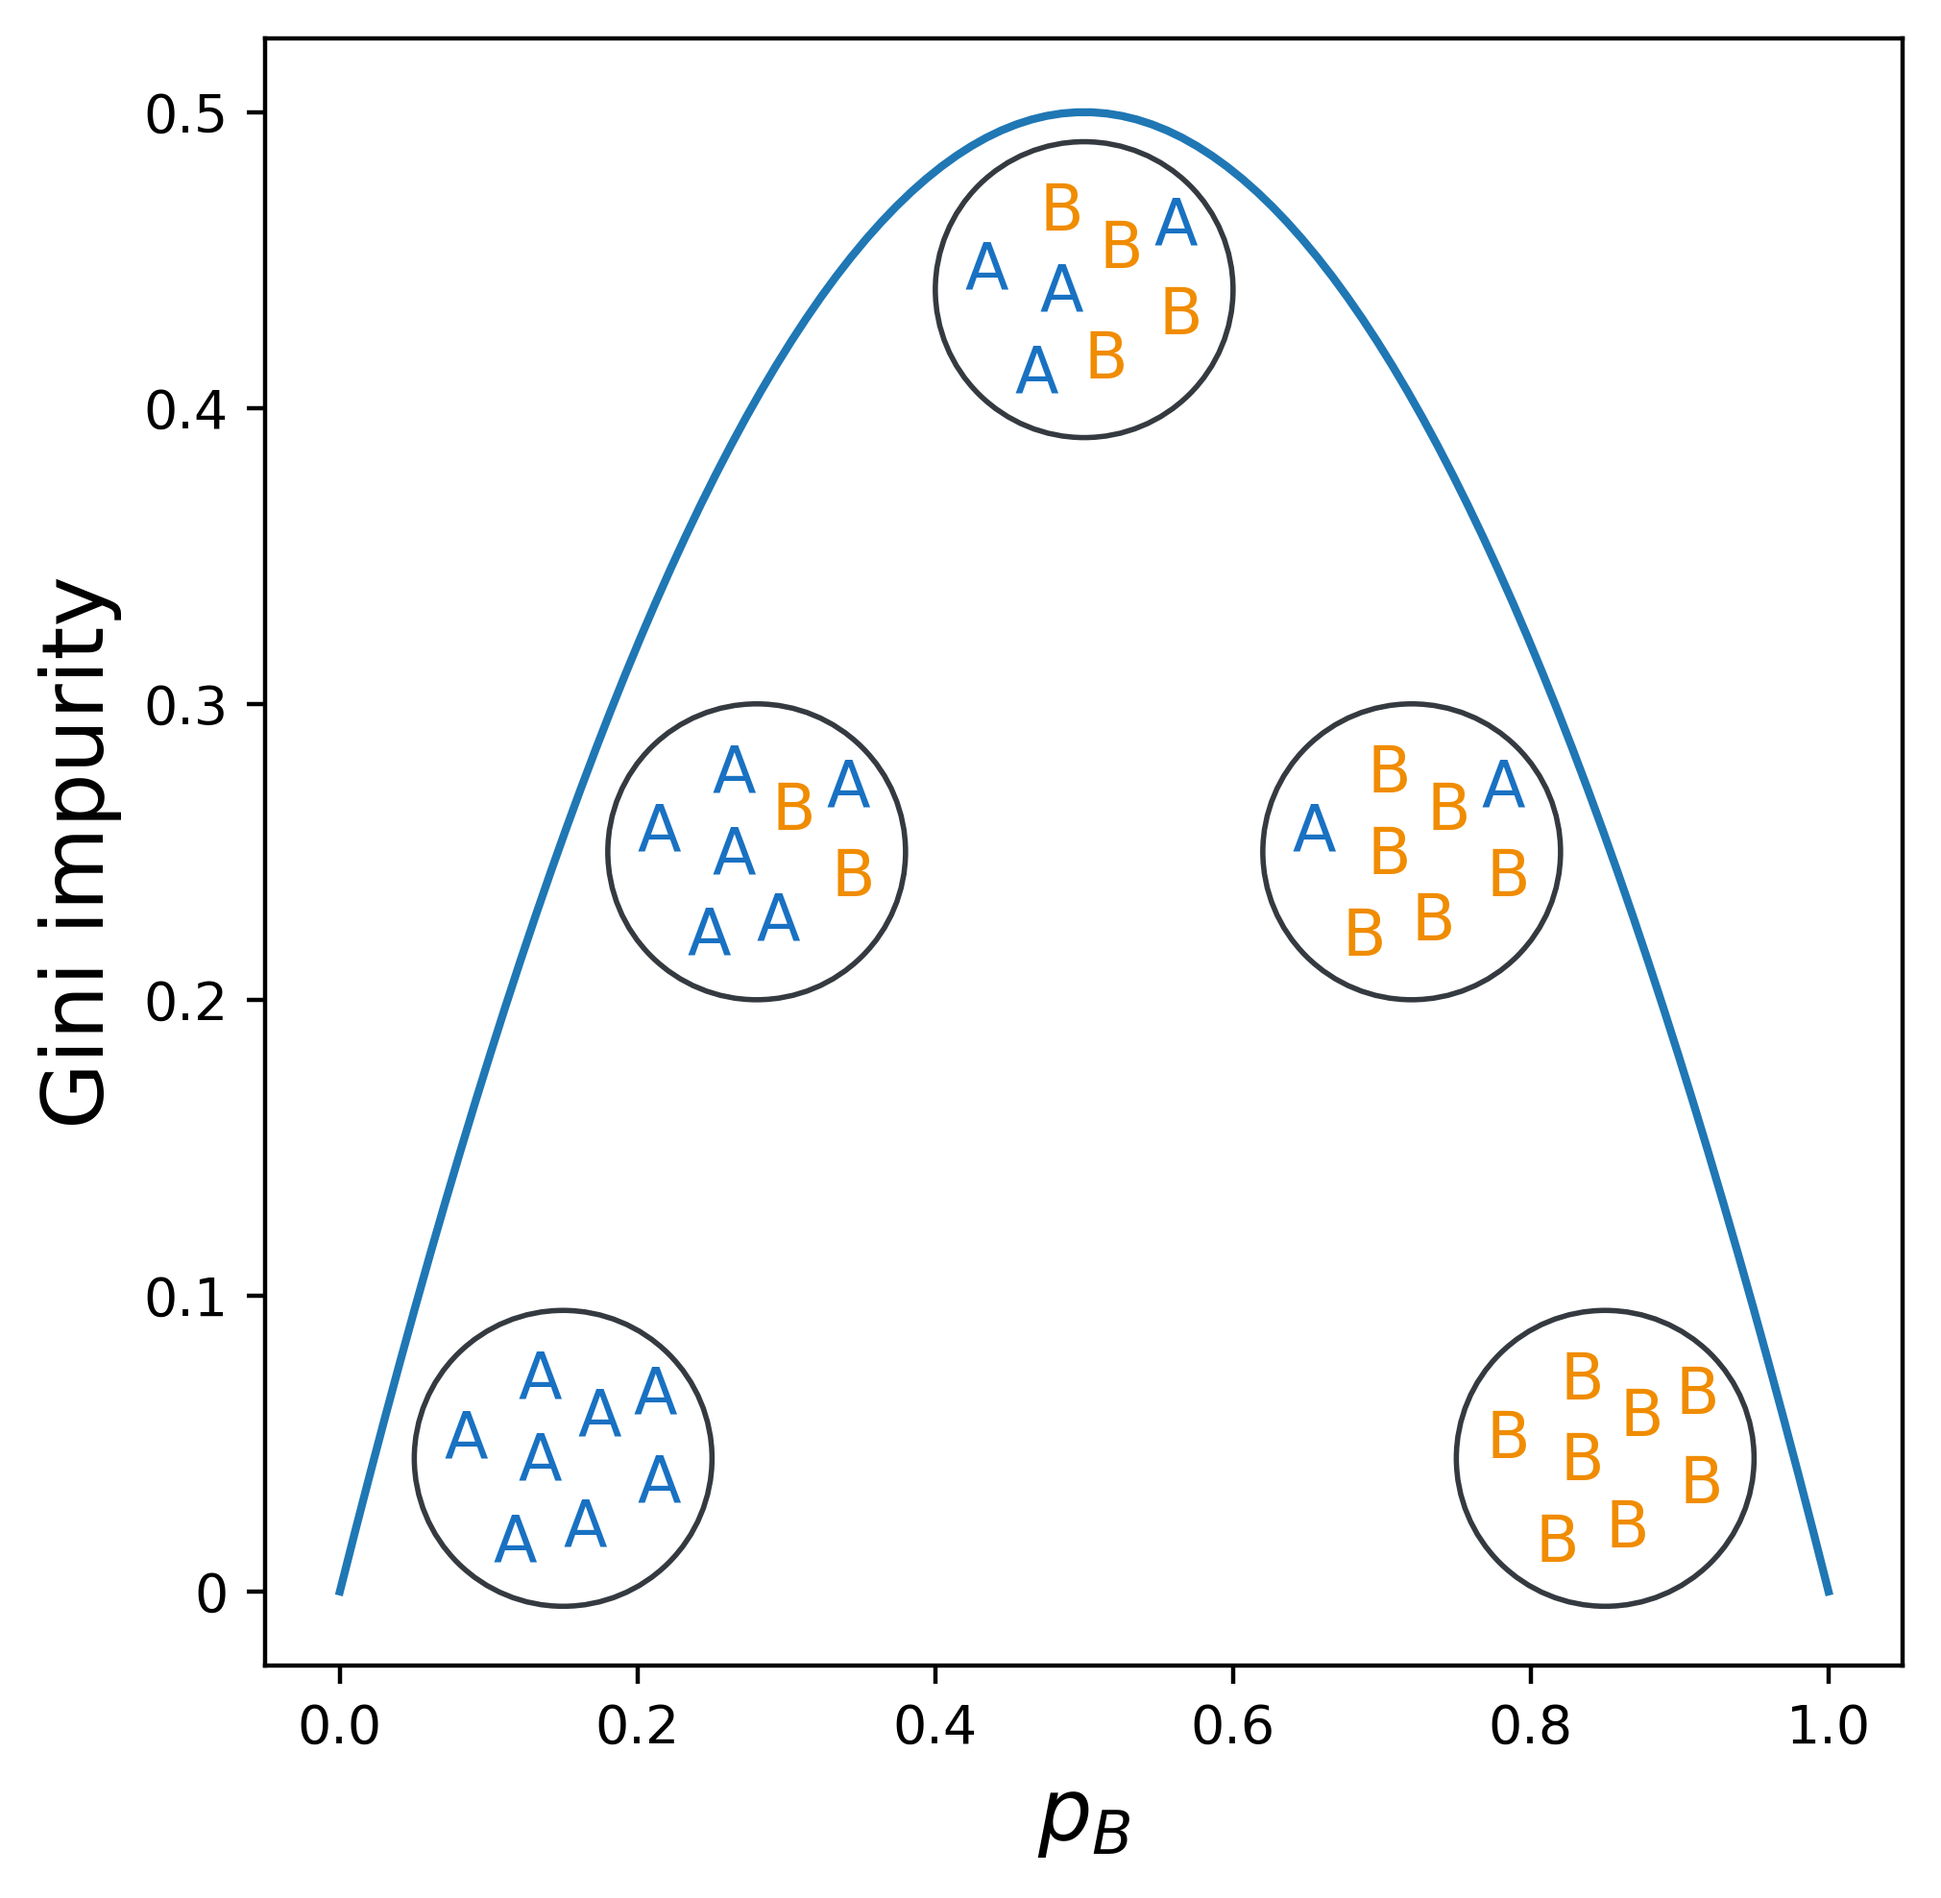
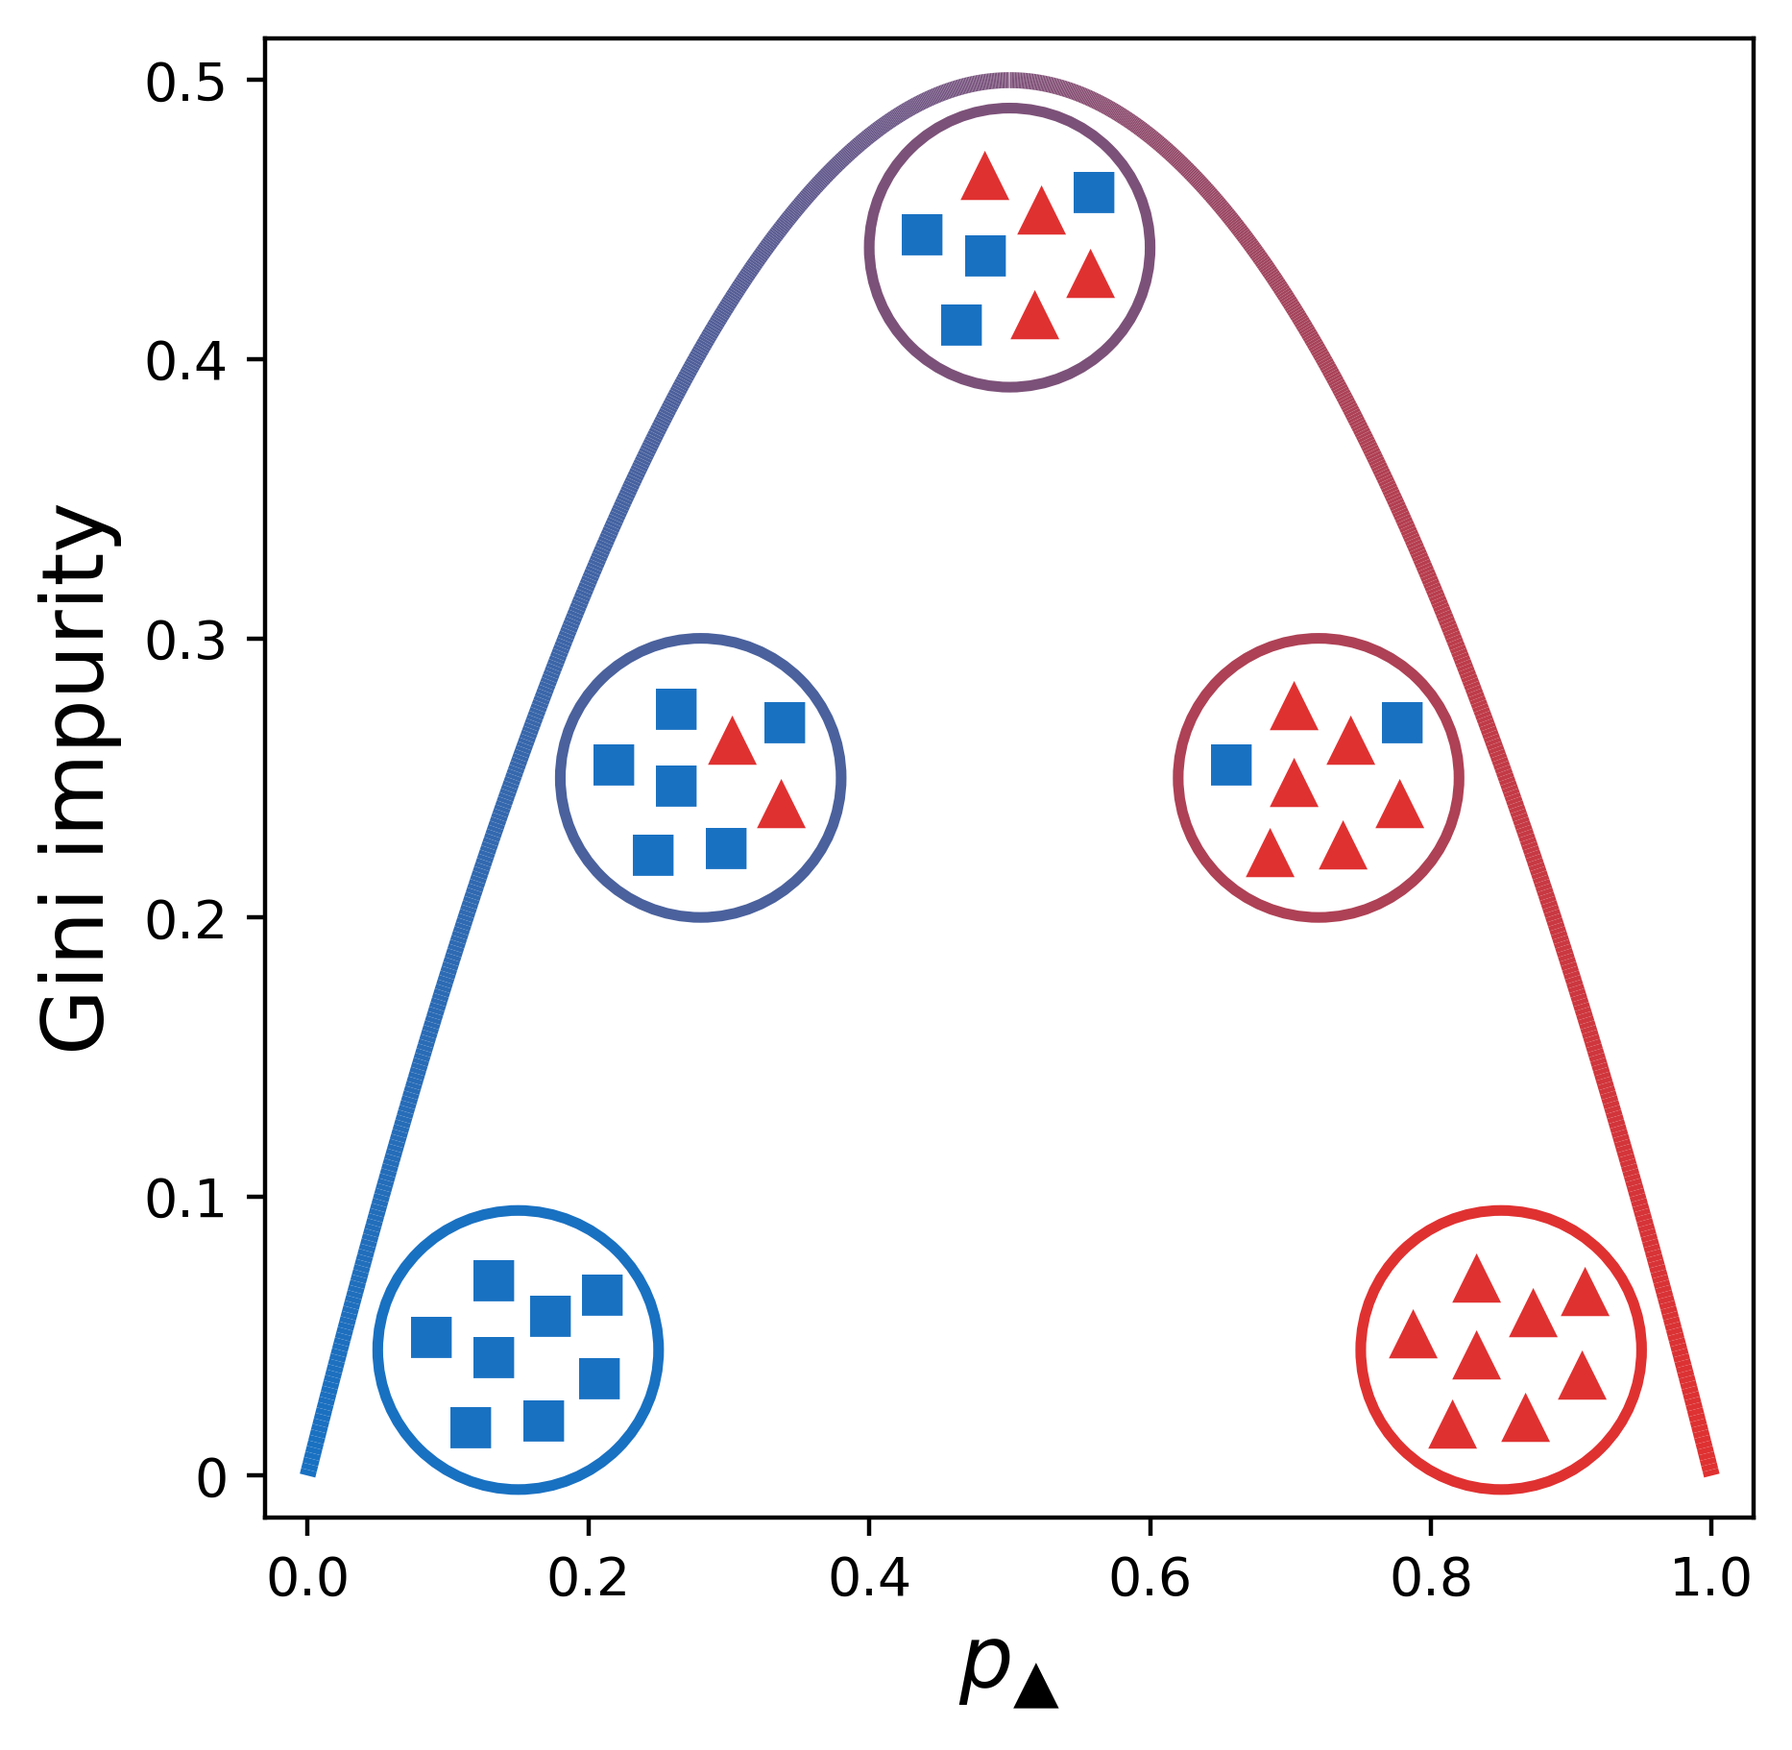
Update Gini figure

diff --git a/_posts/projects/2023-12-22-Random-forest-by-hand.md b/_posts/projects/2023-12-22-Random-forest-by-hand.md
@@ -23,17 +23,21 @@ $$G = 1 - {p_k}^2 - (1-p_k)^2$$
 
 Total Gini impurity of the tree: weighted average.
 
+Below is a plot of the Gini impurity as a function of $p_▲$, the probability of randomly selecting a triangle from the node. The lowest impurity is one where all elements in the node are either _not_ triangles (i.e., squares) or all triangles. As the node becomes mixed, the impurity increases.
 
 <center>
 <img src="{{  site.baseurl  }}/images/projects/decision_tree/gini_impurity.png" height="75%" width="75%">
 </center>
-_Image adapted from Provost, Foster; Fawcett, Tom. Data Science for Business: What You Need to Know about Data Mining and Data-Analytic Thinking_
+<center>
+<i>Image adapted from Provost, Foster; Fawcett, Tom. Data Science for Business: What You Need to Know about Data Mining and Data-Analytic Thinking</i>
+</center>
 
 ## Implementation
 ### Decision tree
 
 Tree could be just one node if there's one rule that completely partitions the classes.
 
+{% include header-python.html %}
 ```python
 import numpy as np
 import pandas as pd
